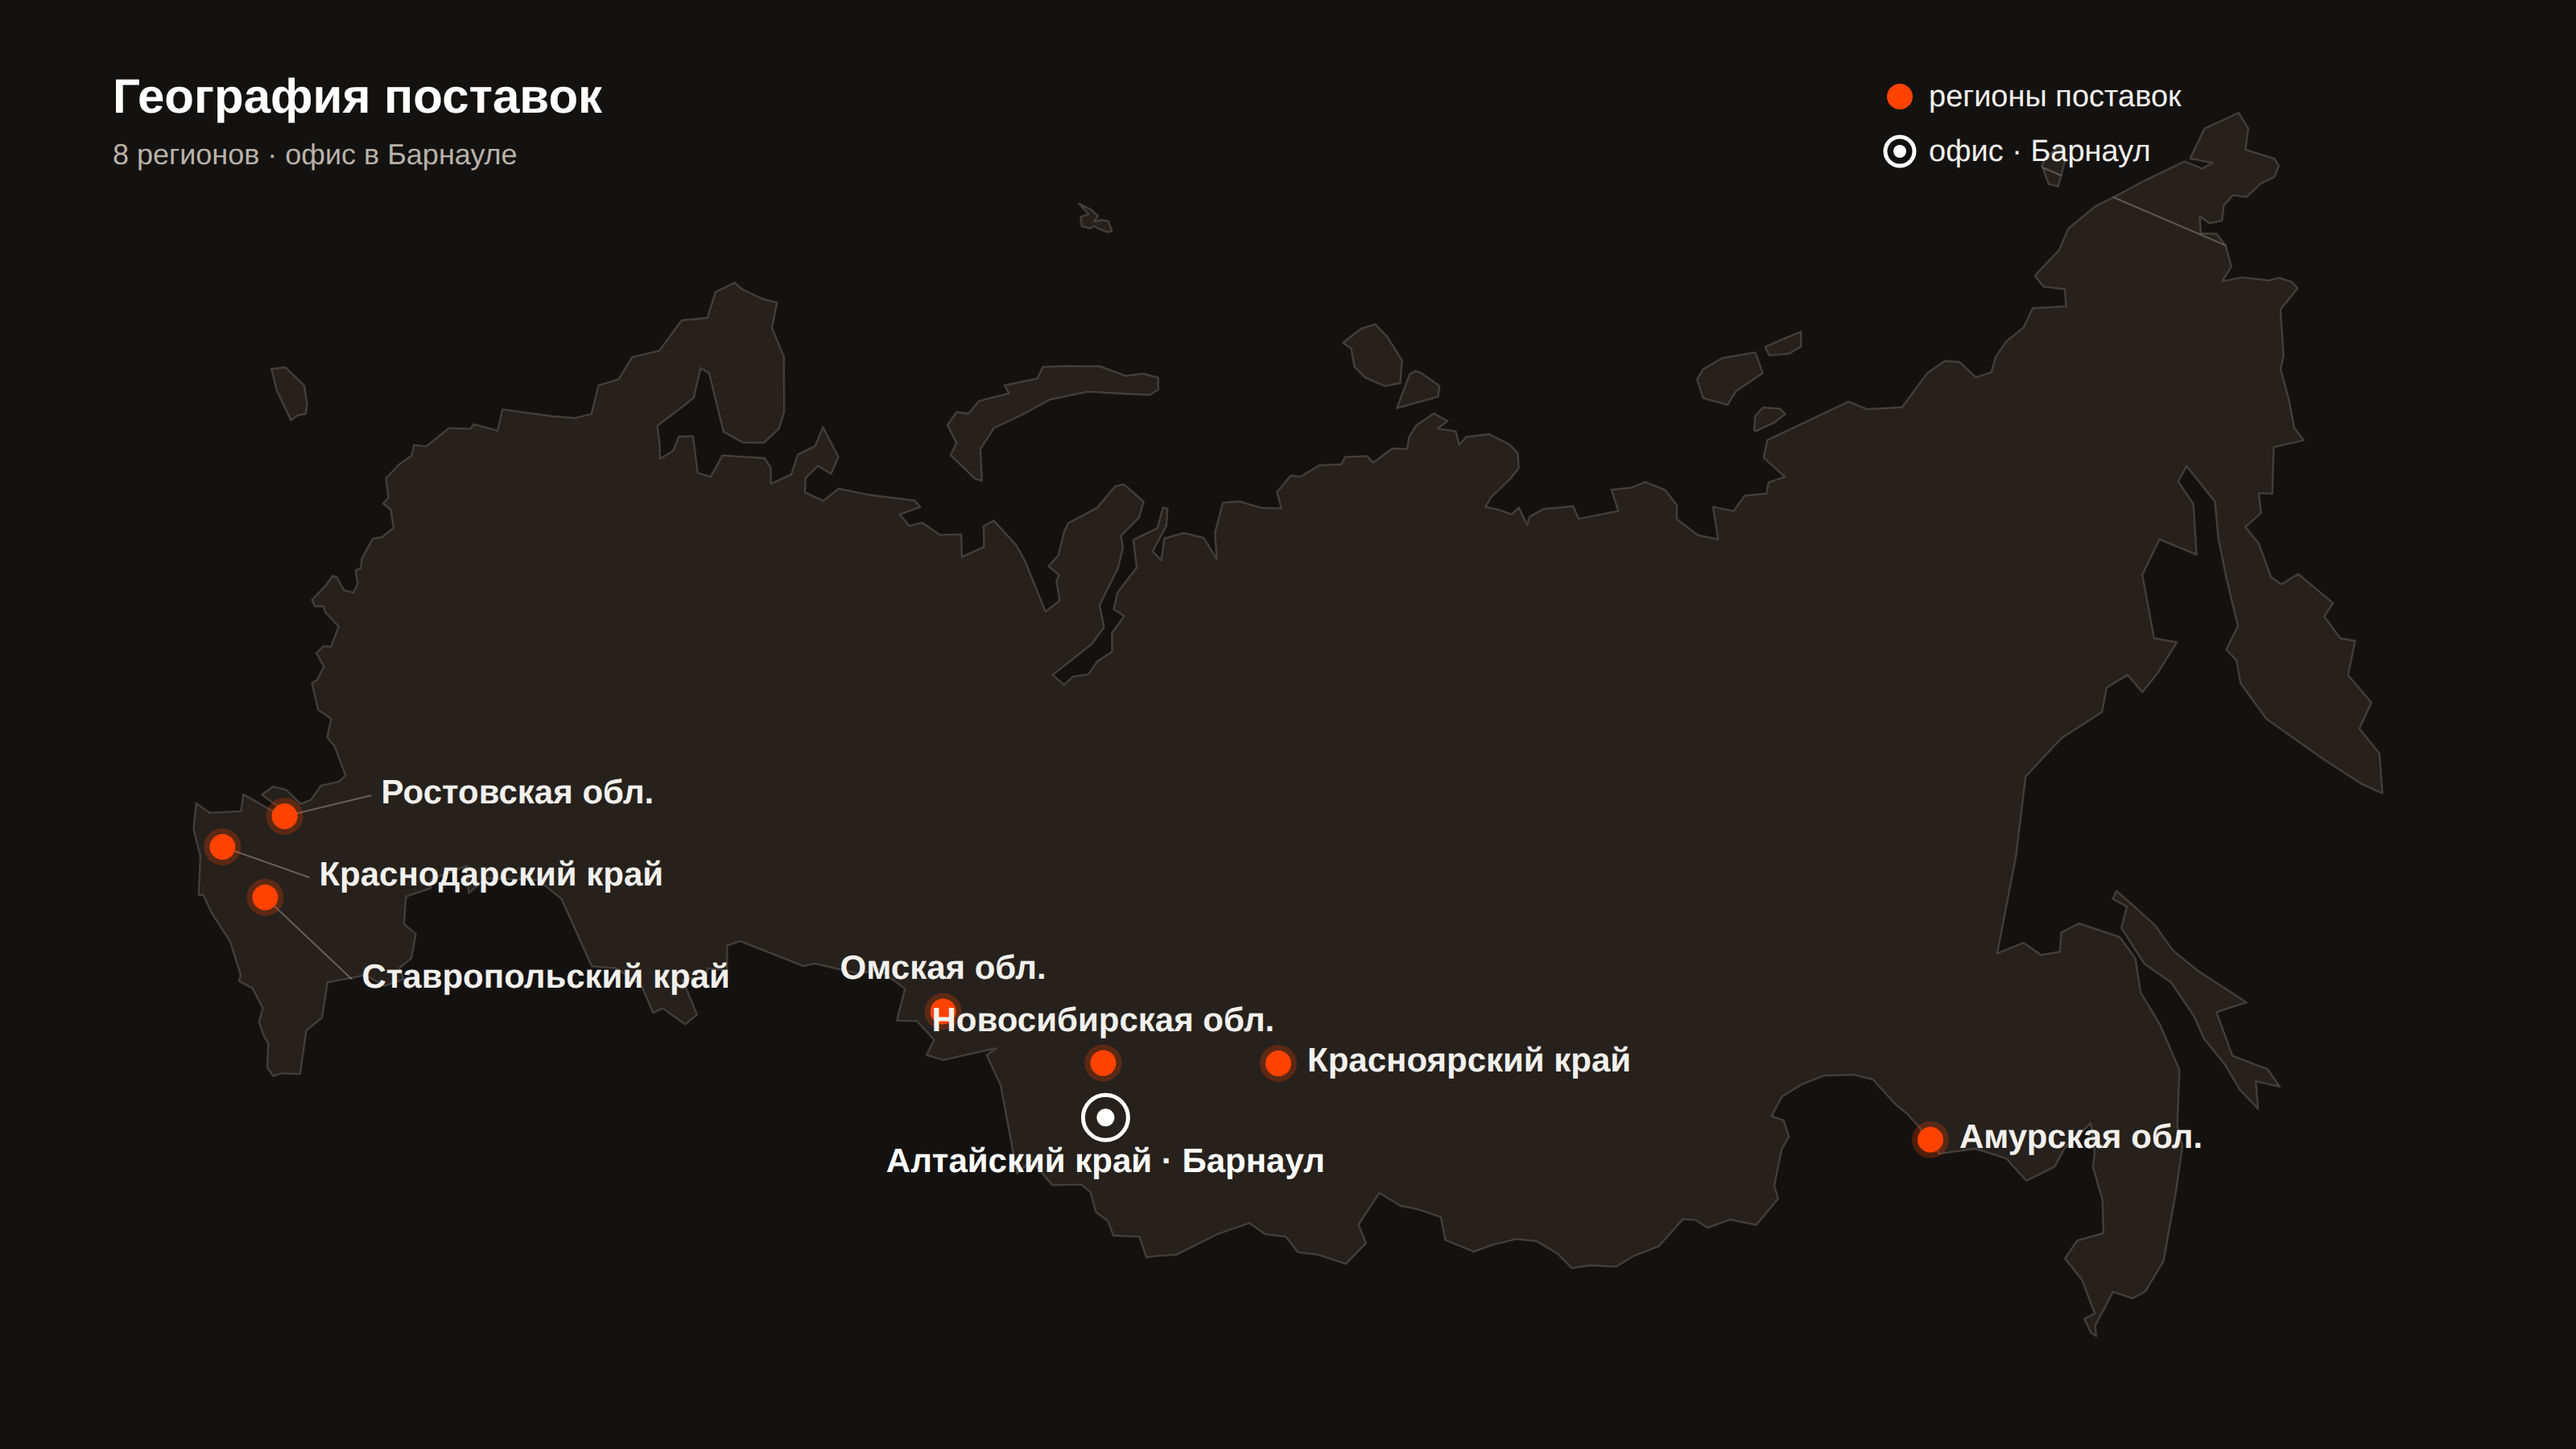
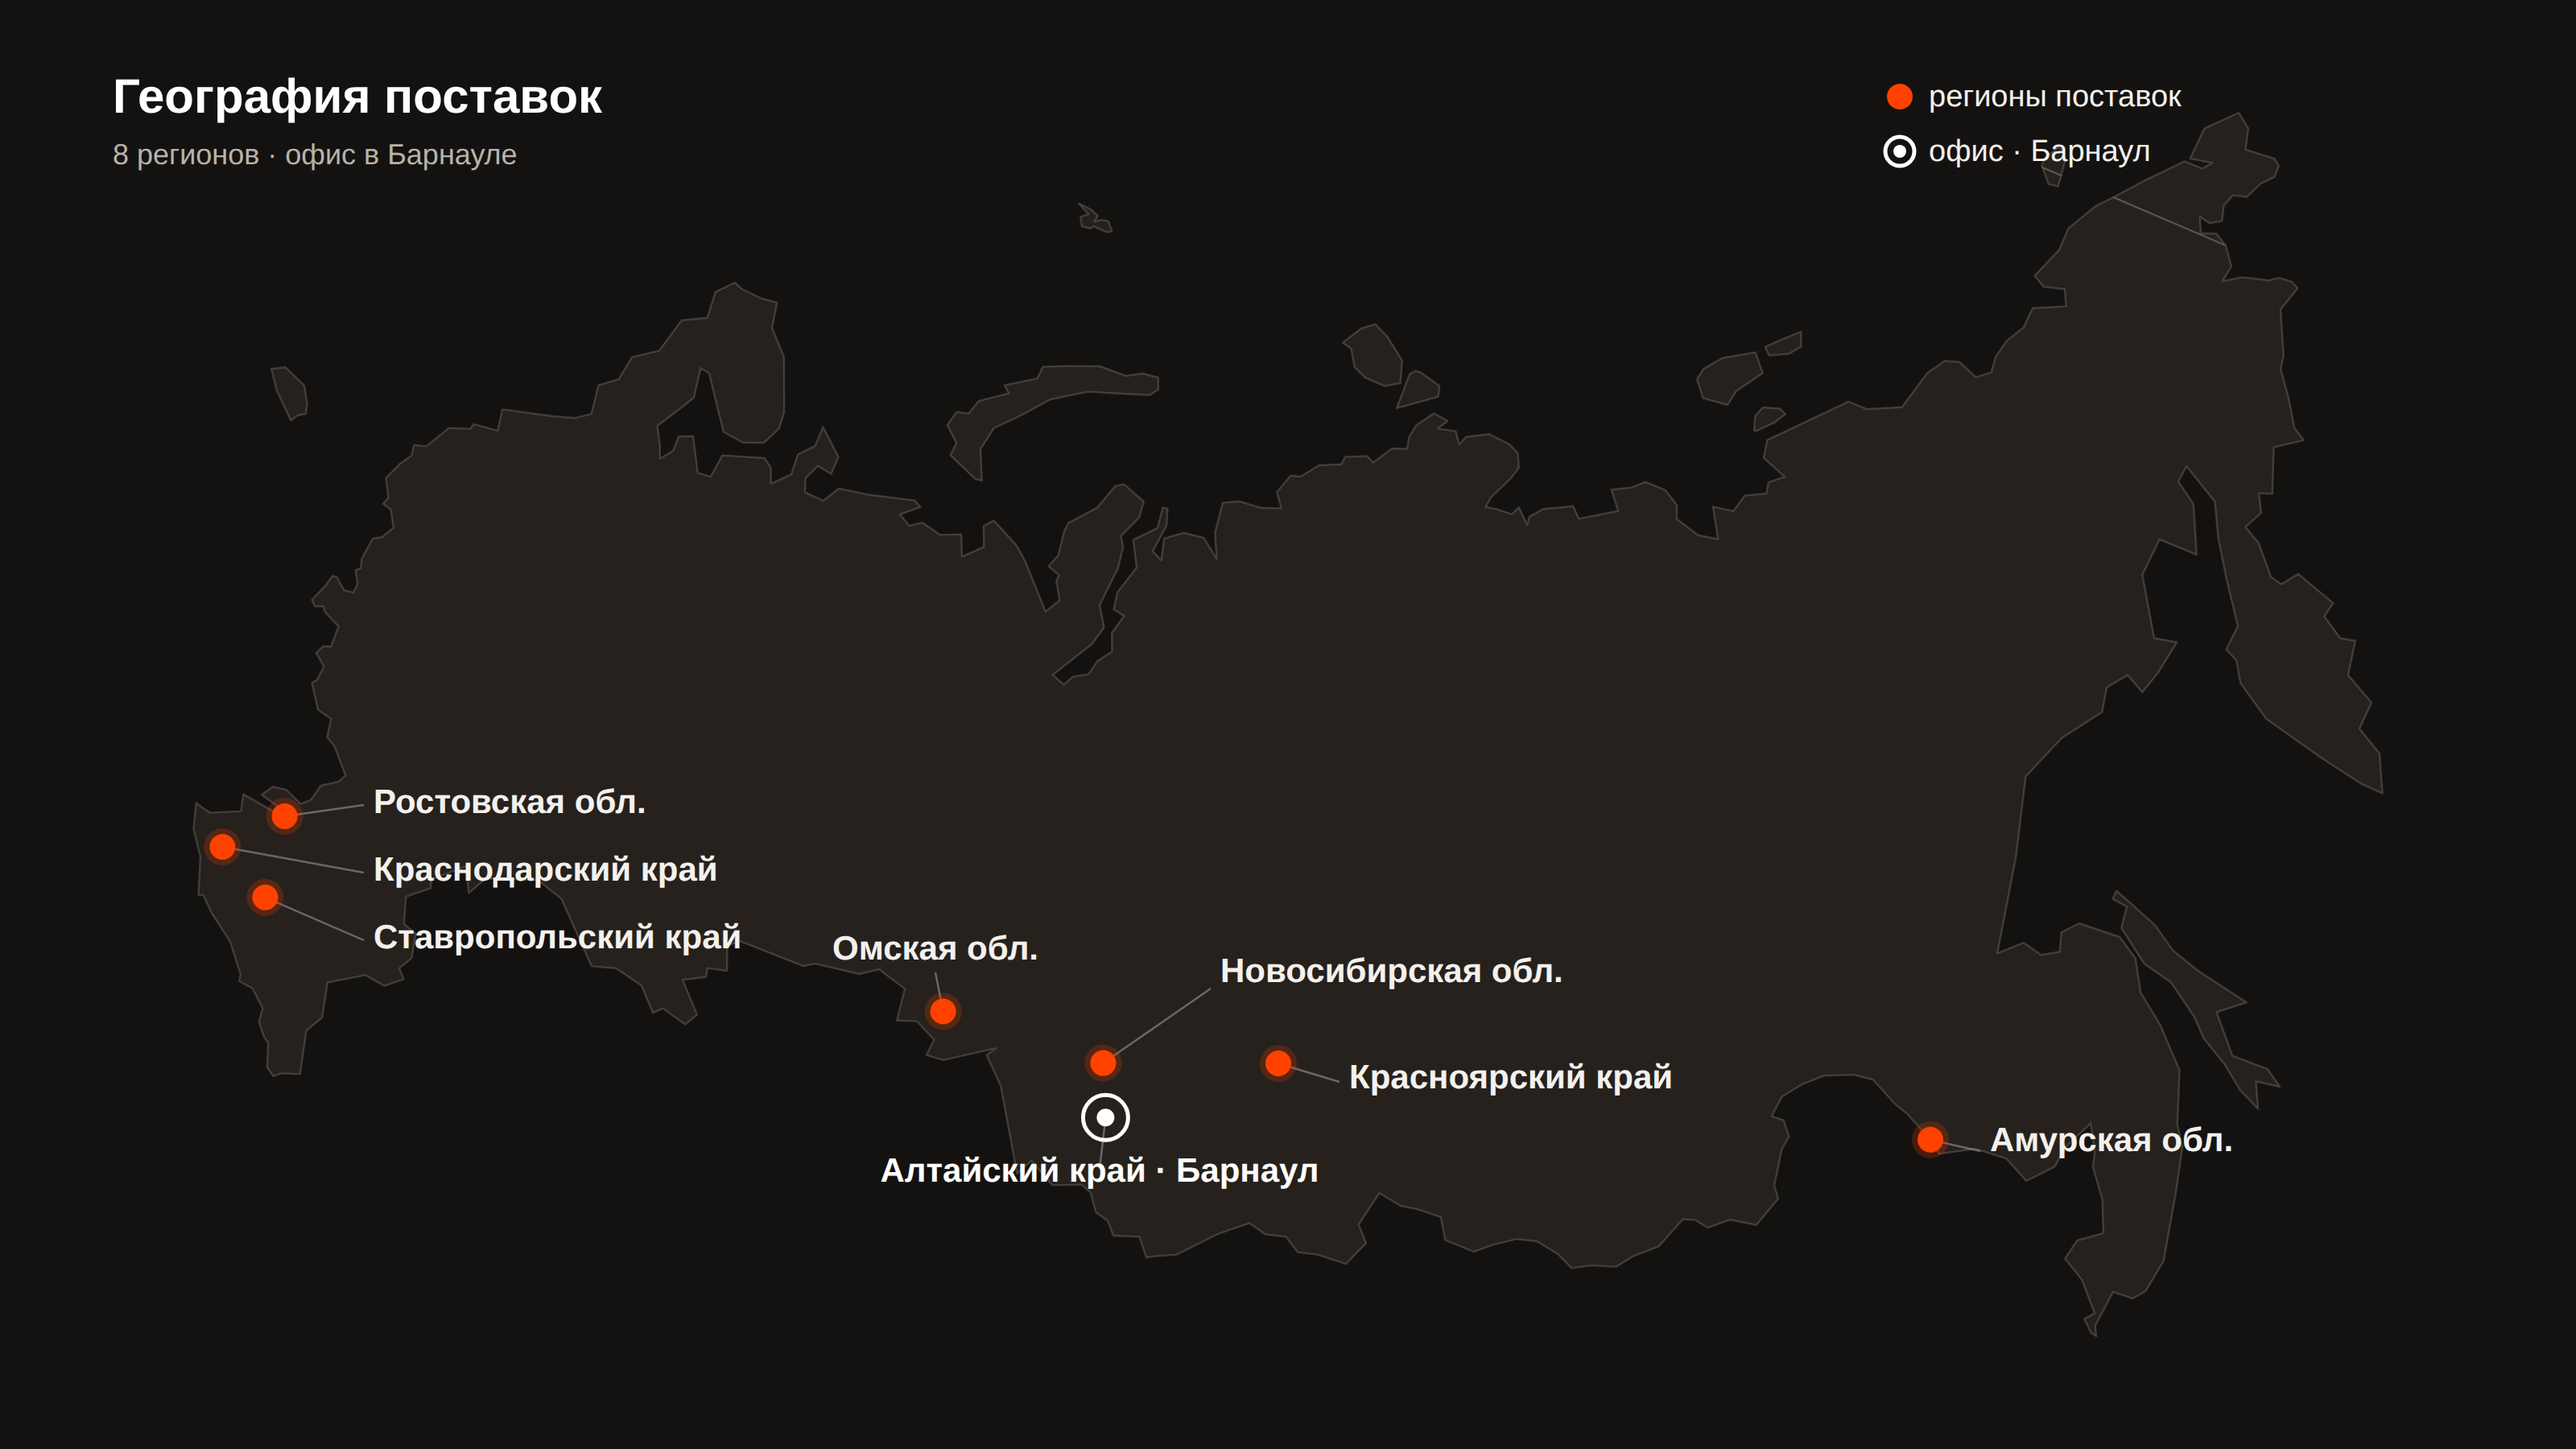
design(geo-map): единые линии-выноски у всех подписей, устранены наложения

diff --git a/design/geo-map/build_map.py b/design/geo-map/build_map.py
@@ -21,46 +21,55 @@ for f in geo["features"]:
     for ring in rings:
         polys.append([proj(x,y) for x,y in ring])
 
-# (name, lat, lon, office?, label anchor, label dx, label dy, leader?)
-regions = [
-    ("Ростовская обл.",        47.24, 39.70, False, "start",  60, -8,  True),
-    ("Краснодарский край",     45.04, 38.98, False, "start",  60,  24, True),
-    ("Ставропольский край",    45.04, 41.97, False, "start",  60,  56, True),
-    ("Омская обл.",            54.99, 73.37, False, "middle",  0, -20, False),
-    ("Новосибирская обл.",     55.03, 82.92, False, "middle",  0, -20, False),
-    ("Алтайский край · Барнаул",53.35, 83.78, True, "middle",  0,  34, False),
-    ("Красноярский край",      56.01, 92.85, False, "start",  18,  5,  False),
-    ("Амурская обл.",          50.29,127.53, False, "start",  18,  5,  False),
-]
-pts=[(name,)+proj(lon,lat)+(off,anc,dx,dy,ld) for (name,lat,lon,off,anc,dx,dy,ld) in regions]
-
-xs=[x for p in polys for x,y in p]+[x for r in pts for x in (r[1],)]
-ys=[y for p in polys for x,y in p]+[y for r in pts for y in (r[2],)]
-minx,maxx,miny,maxy=min(xs),max(xs),min(ys),max(ys)
 W,H=1600,900; pad=70
+# provisional fit (needs pin px for layout) -> compute transform first from polys+pins
+raw=[("Ростовская обл.",47.24,39.70,False),("Краснодарский край",45.04,38.98,False),
+     ("Ставропольский край",45.04,41.97,False),("Омская обл.",54.99,73.37,False),
+     ("Новосибирская обл.",55.03,82.92,False),("Алтайский край · Барнаул",53.35,83.78,True),
+     ("Красноярский край",56.01,92.85,False),("Амурская обл.",50.29,127.53,False)]
+projpts=[(nm,)+proj(lo,la)+(off,) for (nm,la,lo,off) in raw]
+xs=[x for p in polys for x,y in p]+[pp[1] for pp in projpts]
+ys=[y for p in polys for x,y in p]+[pp[2] for pp in projpts]
+minx,maxx,miny,maxy=min(xs),max(xs),min(ys),max(ys)
 s=min((W-2*pad)/(maxx-minx),(H-2*pad)/(maxy-miny))
 offx=(W-(maxx-minx)*s)/2; offy=(H-(maxy-miny)*s)/2
 def T(x,y): return (offx+(x-minx)*s, offy+(maxy-y)*s)
 def path(poly):
     return "".join(("M" if i==0 else "L")+f"{T(x,y)[0]:.1f} {T(x,y)[1]:.1f}" for i,(x,y) in enumerate(poly))+"Z"
 
-BG="#141210"; LAND="#26211C"; STROKE="rgba(255,255,255,.16)"; ORANGE="#FF4200"; TXT="#F3F1EE"
+# explicit label layout: (name, office, labelX, labelY, anchor, leaderEndX, leaderEndY)
+LAB={
+ "Ростовская обл.":       (False, 232,505,"start",226,500),
+ "Краснодарский край":    (False, 232,547,"start",226,542),
+ "Ставропольский край":   (False, 232,589,"start",226,584),
+ "Омская обл.":           (False, 581,596,"middle",581,604),
+ "Новосибирская обл.":    (False, 758,610,"start",752,614),
+ "Алтайский край · Барнаул":(True, 683,734,"middle",683,726),
+ "Красноярский край":     (False, 838,676,"start",832,672),
+ "Амурская обл.":         (False,1236,715,"start",1230,715),
+}
+
+BG="#141210"; LAND="#26211C"; STROKE="rgba(255,255,255,.16)"; ORANGE="#FF4200"; TXT="#F3F1EE"; LEAD="rgba(255,255,255,.32)"
 svg=[f'<svg xmlns="http://www.w3.org/2000/svg" width="{W}" height="{H}" viewBox="0 0 {W} {H}" font-family="Montserrat,Arial,sans-serif">']
 svg.append(f'<rect width="{W}" height="{H}" fill="{BG}"/>')
 for poly in polys:
     svg.append(f'<path d="{path(poly)}" fill="{LAND}" stroke="{STROKE}" stroke-width="1.2" stroke-linejoin="round"/>')
-for name,x,y,off,anc,dx,dy,ld in pts:
-    px,py=T(x,y); lx,ly=px+dx,py+dy
-    if ld:
-        svg.append(f'<line x1="{px:.1f}" y1="{py:.1f}" x2="{lx-6:.1f}" y2="{ly-5:.1f}" stroke="rgba(255,255,255,.28)" stroke-width="1"/>')
+
+# draw leaders first (under pins), then pins, then labels
+for nm,x,y,off in projpts:
+    px,py=T(x,y); lblx,lbly,anc,ex,ey=LAB[nm][1:]
+    svg.append(f'<line x1="{px:.1f}" y1="{py:.1f}" x2="{ex}" y2="{ey}" stroke="{LEAD}" stroke-width="1.2"/>')
+for nm,x,y,off in projpts:
+    px,py=T(x,y)
     if off:
         svg.append(f'<circle cx="{px:.1f}" cy="{py:.1f}" r="14" fill="none" stroke="#fff" stroke-width="2.5"/><circle cx="{px:.1f}" cy="{py:.1f}" r="5.5" fill="#fff"/>')
-        col="#fff"; fw="700"
     else:
-        svg.append(f'<circle cx="{px:.1f}" cy="{py:.1f}" r="8" fill="{ORANGE}"/><circle cx="{px:.1f}" cy="{py:.1f}" r="8" fill="none" stroke="{ORANGE}" stroke-opacity=".25" stroke-width="7"/>')
-        col=TXT; fw="600"
-    svg.append(f'<text x="{lx:.1f}" y="{ly:.1f}" fill="{col}" font-size="21" font-weight="{fw}" text-anchor="{anc}">{name}</text>')
-# title + legend
+        svg.append(f'<circle cx="{px:.1f}" cy="{py:.1f}" r="8" fill="none" stroke="{ORANGE}" stroke-opacity=".22" stroke-width="7"/><circle cx="{px:.1f}" cy="{py:.1f}" r="8" fill="{ORANGE}"/>')
+for nm,x,y,off in projpts:
+    lblx,lbly,anc,ex,ey=LAB[nm][1:]
+    col="#fff" if off else TXT; fw="700" if off else "600"
+    svg.append(f'<text x="{lblx}" y="{lbly}" fill="{col}" font-size="21" font-weight="{fw}" text-anchor="{anc}">{nm}</text>')
+
 svg.append(f'<text x="70" y="70" fill="#fff" font-size="30" font-weight="800">География поставок</text>')
 svg.append(f'<text x="70" y="102" fill="#B9B2AA" font-size="18">8 регионов · офис в Барнауле</text>')
 lgx,lgy=1180,60
@@ -68,4 +77,4 @@ svg.append(f'<circle cx="{lgx}" cy="{lgy}" r="8" fill="{ORANGE}"/><text x="{lgx+
 svg.append(f'<circle cx="{lgx}" cy="{lgy+34}" r="9" fill="none" stroke="#fff" stroke-width="2.5"/><circle cx="{lgx}" cy="{lgy+34}" r="4" fill="#fff"/><text x="{lgx+18}" y="{lgy+40}" fill="{TXT}" font-size="19">офис · Барнаул</text>')
 svg.append('</svg>')
 open("map_ref.svg","w").write("\n".join(svg))
-print("wrote map_ref.svg")
+print("ok")
